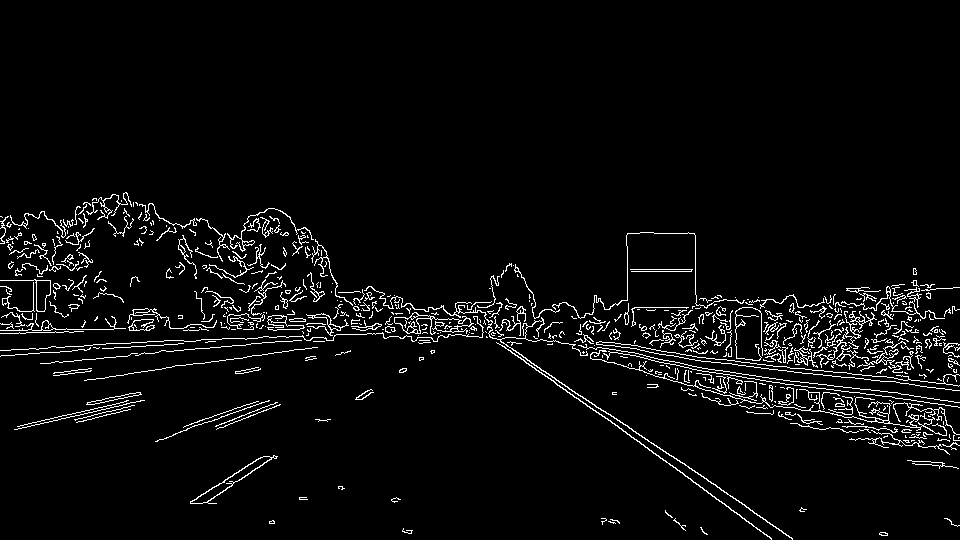
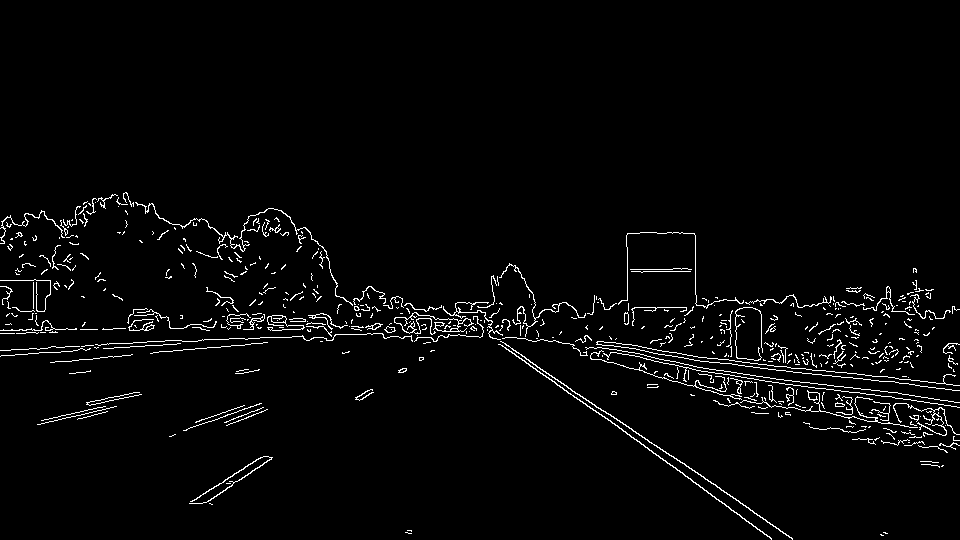
:car: optimization

diff --git a/main.py b/main.py
@@ -3,43 +3,44 @@ import colorSelection as cs
 import regionOfInterest as rgn
 import cannedEdgeDetection as can
 
-# read the image
-image = imgUtil.readImage('./imgs/lane.jpg')
-
-# Make a copy of image
-color_select = imgUtil.copyImage(image)
-region_select = imgUtil.copyImage(image)
-grayed_select = imgUtil.copyImage(image)
-
-# Mask pixels below the threshold
-color_thresholds = cs.setColorThresholds(image, color_select)
-
-# Find the region inside the lines
-region_thresholds = rgn.defineRegionOfInterest(image)
-
-# Mask color and region selection
-region_color_select = imgUtil.copyImage(color_select)
-region_color_select[color_thresholds | ~region_thresholds] = [0, 0, 0]
-
-# Find where image is both colored right and in the region
-region_select[~color_thresholds & region_thresholds] = [255,0,0]
-
-# Generate Gray scaled image
-grayed_select = can.grayOutImage(grayed_select)
-
-# Applied Canny function to grayed scale image to find out edges of gradiants
-edge_select = can.cannedImage(grayed_select)
-
-# Only Select the region - experiment
-edge_region_select = imgUtil.copyImage(edge_select)
-color_edge_thresholds = (edge_region_select[:,:,0] < rgb_threshold[0]) | (edge_region_select[:,:,1] < rgb_threshold[1]) | (edge_region_select[:,:,2] < rgb_threshold[2])
-edge_region_select[color_edge_thresholds | ~region_thresholds] = [0, 0, 0]
+# read images
+image1 = imgUtil.readImage('./imgs/lane.jpg')
+image2 = imgUtil.readImage('./imgs/exit-ramp.jpg')
 
 
-#Save image
-imgUtil.displayAndSaveImage(color_select, './imgs/color-lane-selection.jpg')
-imgUtil.displayAndSaveImage(region_select, './imgs/region-lane-selection.jpg')
-imgUtil.displayAndSaveImage(region_color_select, './imgs/region-color-lane-selection.jpg')
-imgUtil.saveImageWithCmap(grayed_select, './imgs/grayed-out-lane-selection.jpg', cmap='gray')
-imgUtil.saveImageWithCmap(edge_select, './imgs/edge-select-lane-selection.jpg', cmap='Greys_r')
-imgUtil.displayAndSaveImage(edge_region_select, './imgs/edge-region-lane-selection.jpg')
+def defineLanes(image, name):
+    # Make a copy of image
+    color_select = imgUtil.copyImage(image)
+    region_select = imgUtil.copyImage(image)
+    grayed_select = imgUtil.copyImage(image)
+
+    # Mask pixels below the threshold
+    color_thresholds = cs.setColorThresholds(image, color_select)
+
+    # Find the region inside the lines
+    region_thresholds = rgn.defineRegionOfInterest(image)
+
+    # Mask color and region selection
+    region_color_select = imgUtil.copyImage(color_select)
+    region_color_select[color_thresholds | ~region_thresholds] = [0, 0, 0]
+
+    # Find where image is both colored right and in the region
+    region_select[~color_thresholds & region_thresholds] = [255,0,0]
+
+    # Generate Gray scaled image
+    grayed_select = can.grayOutImage(grayed_select)
+
+    # Applied Canny function to grayed scale image to find out edges of gradiants
+    edge_select = can.cannedImage(grayed_select)
+
+    #Save image
+    imgUtil.displayAndSaveImage(color_select, './imgs/' + name + 'color-lane-selection.jpg')
+    imgUtil.displayAndSaveImage(region_select, './imgs/' + name + 'region-lane-selection.jpg')
+    imgUtil.displayAndSaveImage(region_color_select, './imgs/' + name + 'region-color-lane-selection.jpg')
+    imgUtil.saveImageWithCmap(grayed_select, './imgs/' + name + 'grayed-out-lane-selection.jpg', cmap='gray')
+    imgUtil.saveImageWithCmap(edge_select, './imgs/' + name + 'edge-select-lane-selection.jpg', cmap='Greys_r')
+
+
+#defineLanes(image1, 'img1')
+
+defineLanes(image2, 'img2')

diff --git a/cannedEdgeDetection.py b/cannedEdgeDetection.py
@@ -8,7 +8,7 @@ def grayOutImage(image):
     return gray
 
 
-def cannedImage(grayedImage, kernel_size=3, low_threshold=50, high_threshold=90):
+def cannedImage(grayedImage, kernel_size=5, low_threshold=50, high_threshold=150):
     # Define a kernel size for Gaussian smoothing / blurring
     blur_gray = cv2.GaussianBlur(grayedImage,(kernel_size, kernel_size), 0)
     edges = cv2.Canny(blur_gray, low_threshold, high_threshold)

diff --git a/colorSelection.py b/colorSelection.py
@@ -3,7 +3,7 @@ import matplotlib.image as mpimg
 import numpy as np
 
 
-def setColorThresholds(image, image_copy, red_threshold=200, green_threshold=200, blue_threshold=200):
+def setColorThresholds(image, image_copy, red_threshold=150, green_threshold=90, blue_threshold=10):
     # set thresholds
     rgb_threshold = [red_threshold, green_threshold, blue_threshold]
 

diff --git a/README.md b/README.md
@@ -3,39 +3,39 @@
 
 ### Overview
 
-Self-driving car needs percieve the world as humans do when they drive. 
+Self-driving car needs percieve the world as humans do when they drive.
 Humans use their eyes to figure out how fast they go, where the lane lines are and where are the turns. Car does not have eyes but
 self-driving cars can use cameras and other sensors to keep the similar function. So what does cameras are seeing as we drive down
 the road is not the same as what we perceive. We have to teach the car how to percieve lane lines and turns.
 
 So in this project I have written code to identify and track the position of the lane lines in the series of images using image
-analysis techniques.  
-  
+analysis techniques.
+
   ![alt tag](https://d17h27t6h515a5.cloudfront.net/topher/2016/August/57b4b3ff_test/test.jpg)
-  
+
 Features of images to detect lane lines are:
   * color
   * shape
   * orientation
   * position of the image
-  
-  
+
+
 ### Setup
-  
+
 Language level and libraries used:
   * Python 3
   * Numpy
   * Matplotlib
-  
-  
+
+
 ### Run
 Execute the following command from the root directory:
 
   ```
-    python3 main.py 
+    python3 main.py
   ```
-  
-  
+
+
 ### Results
 
 Image after color detection
@@ -51,5 +51,6 @@ Image after mixing color and region selection images:
 ![alt tag](./imgs/region-color-lane-selection.jpg)
 
 As it happens, lane lines are not always the same color, and even lines of the same color under different lighting conditions (day, night, etc) may fail to be detected by our simple color selection. What we need is to take our algorithm to the next level to detect lines of any color using sophisticated computer vision methods.
+One way is using Canny function and fiddle with the parameters for the Gaussian smoothing and Edge Detection to optimize for detecting the lane lines well without detecting a lot of other stuff.
 
-
+![alt tag](./imgs/img2edge-select-lane-selection.jpg)
